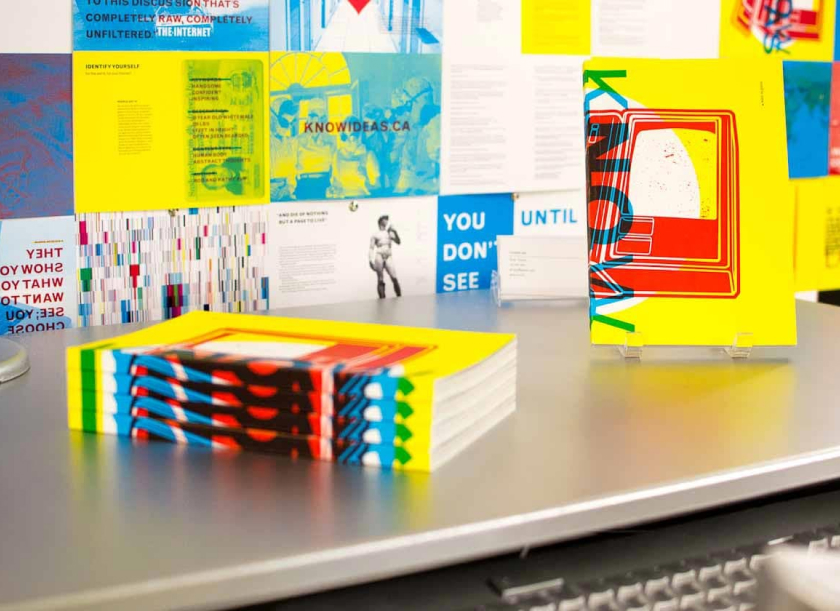
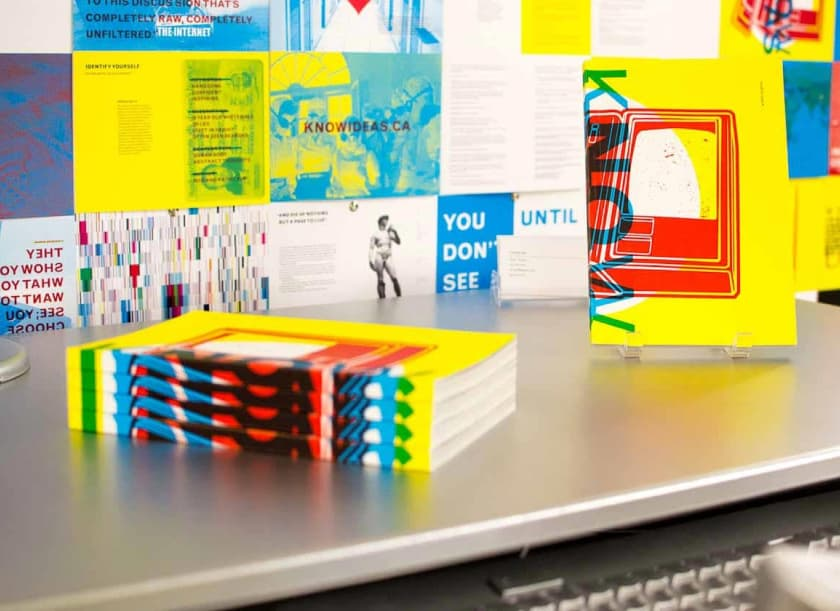
Changed colot images, made Ethics layout match About.

diff --git a/_site/about/index.html b/_site/about/index.html
@@ -79,26 +79,26 @@
 <div class="mw-1024 u-mar-auto">
     <div class="Grid  Grid--withGutters  u-pad-b03">
       <div class="Grid-cell  u-size1of2">
-        <img src="/assets/jostle-overview.jpg" alt="The team at Jostle" />
+        <img src="/assets/about/jostle-overview.jpg" alt="The team at Jostle" />
         <h3 class="as-h4  u-mar-t02  u-mar-b00"><strong>Jostle Corporation</strong></h3>
         <p class="c-grey03  u-mar-t01  u-mar-b01"><em>UX Designer, 4 years and 4 months (Jan ’15 — Apr ’19)</em></p>
         <p class="u-mar-t01  u-mar-b00">I designed features for Jostle’s SaaS intranet platform, which helps people connect and communicate in the workplace. Design spanned desktop web, iOS, Android, and Android TV clients. Alongside the Design Team, I helped define The Jostle Style Guide—an atomic design system. I lead design for Discussions (Chat), Library (File sharing), JostleTV (Your intranet steaming on TV), Calls (1-on-1 and Broadcast video calls), Teams (Jostle’s patented tech for content distribution), and several components, a complete redesign and build of The Jostle Blog, and more…</p>
         <p class="u-mar-t02  u-mar-b02"><a href="/work/jostle/" class="Btn">View selected work from Jostle&nbsp;&nbsp;⟩</a></p>
       </div>
       <div class="Grid-cell  u-size1of2">
-        <img src="/assets/steamclock-overview.jpg" alt="Steamclock office" />
+        <img src="/assets/about/steamclock-overview.jpg" alt="Steamclock office" />
         <h3 class="as-h4  u-mar-t02  u-mar-b00"><strong>Steamclock Software</strong></h3>
         <p class="c-grey03  u-mar-t01  u-mar-b01"><em>UX/UI Deisgner, 2 years and 3 months (Oct ’12 — Dec ’15)</em></p>
         <p class="u-mar-t01  u-mar-b02">At Steamclock Software, my work involved strategy, information architecture, wireframing, user interface design, branding, and marketing for app on iOS and Android. Half of my time at Steamclock was spent designing the products WeddingDJ and PartyMonster. The other half of my time was spent designing various iOS, Android, and web products for clients. I cut my teeth in product design and front-end development. Steamclock gave me the freedom to take risks, learn, and evolve my process. Company and employee benefitted from that trust.</p>
       </div>
       <div class="Grid-cell  u-size1of2">
-        <img src="/assets/free-agency-creative-overview.jpg" alt="Free Agency Creative office" />
+        <img src="/assets/about/free-agency-creative-overview.jpg" alt="Free Agency Creative office" />
         <h3 class="as-h4  u-mar-t02  u-mar-b00"><strong>Free Agency Creative</strong></h3>
         <p class="c-grey03  u-mar-t01  u-mar-b01"><em>Contract Designer, 3 months (Aug—Oct ’12)</em></p>
         <p class="u-mar-t01  u-mar-b02">At FAC, I handled design and production of point of purchase displays and materials for Nintendo of America, large scale in-mall and direct mail marketing campaigns for Park Royal Shopping Centre, advertising, signage, video and marketing collateral for some of Vancouver’s most successful real estate developers, and print and digital collateral for Marketplace Events – a company that produces some of the largest and longest-running home show events in North America.</p>
       </div>
       <div class="Grid-cell  u-size1of2">
-        <img src="/assets/ecuad-overview.jpg" alt="Emily Carr University on Granville Island" />
+        <img src="/assets/about/ecuad-overview.jpg" alt="Emily Carr University on Granville Island" />
         <h3 class="as-h4  u-mar-t02  u-mar-b00"><strong>Emily Carr University of Art + Design</strong></h3>
         <p class="c-grey03  u-mar-t01  u-mar-b00"><em>Research Assistant, 2 years part-time (Mar ’11 — Apr ’12)</em></p>
         <p class="u-mar-t01  u-mar-b00">2008 to 2012, I was a student of the Interaction Design Degree Program at Emily Carr University of Art + Design. I consider the last 2 years of this program the start of my professional career. The SIM Centre opened up opportunities for me to work with Mozilla, Steamclock Software, and other ECUAD faculty and students. In my fourth year, I was able to work on a website for Bravado Magazine and an award winning experimental print publication about internet culture called <em>Know Ideas</em>.</p>

diff --git a/ecuad.html b/ecuad.html
@@ -44,7 +44,7 @@ permalink: /work/ecuad/
   <div class="Grid-cell  u-size2of3  u-mar-b05">
       <!-- Flickity HTML init -->
       <div class="carousel"
-        data-flickity='{ "imagesLoaded": true, "wrapAround": true, "fullscreen": true, "lazyLoad": 2 }'>
+        data-flickity='{ "imagesLoaded": true, "wrapAround": true, "fullscreen": true, "lazyLoad": 2, "dragThreshol": 10 }'>
         <img class="carousel-cell-image" data-flickity-lazyload="/assets/ecuad/bravado-magazine-1.jpg" alt="Bravado Mag Overview" />
         <img class="carousel-cell-image" data-flickity-lazyload="/assets/bravado/bravado1.jpg" alt="Bravado Mag Logo" />
         <img class="carousel-cell-image" data-flickity-lazyload="/assets/bravado/bravado2.jpg" alt="Bravado Mag Home  " />
